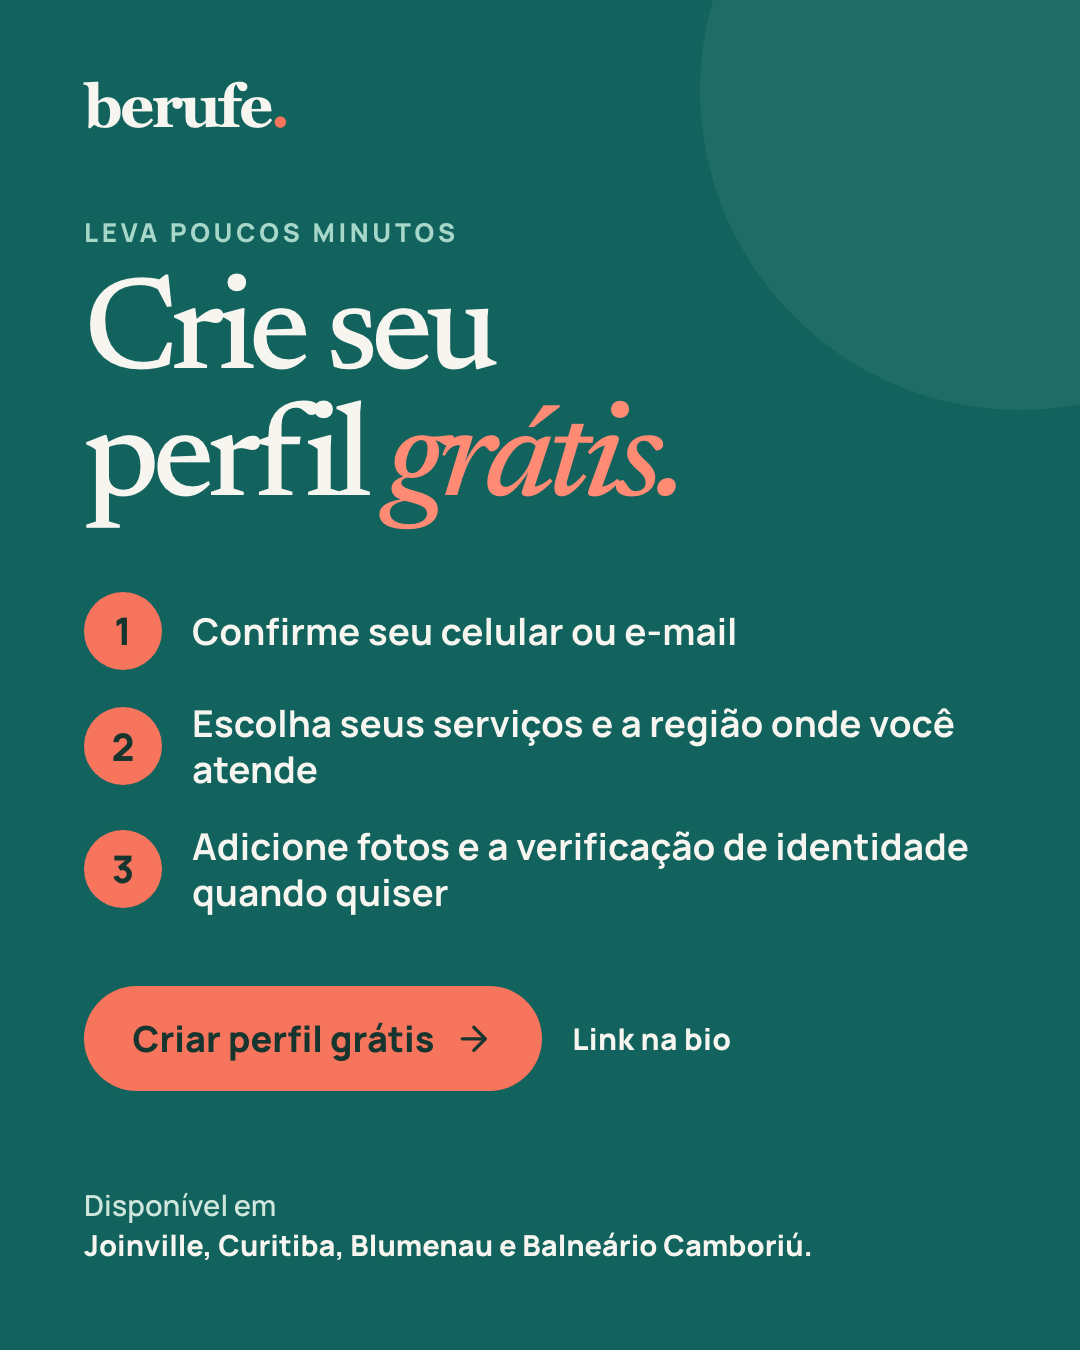
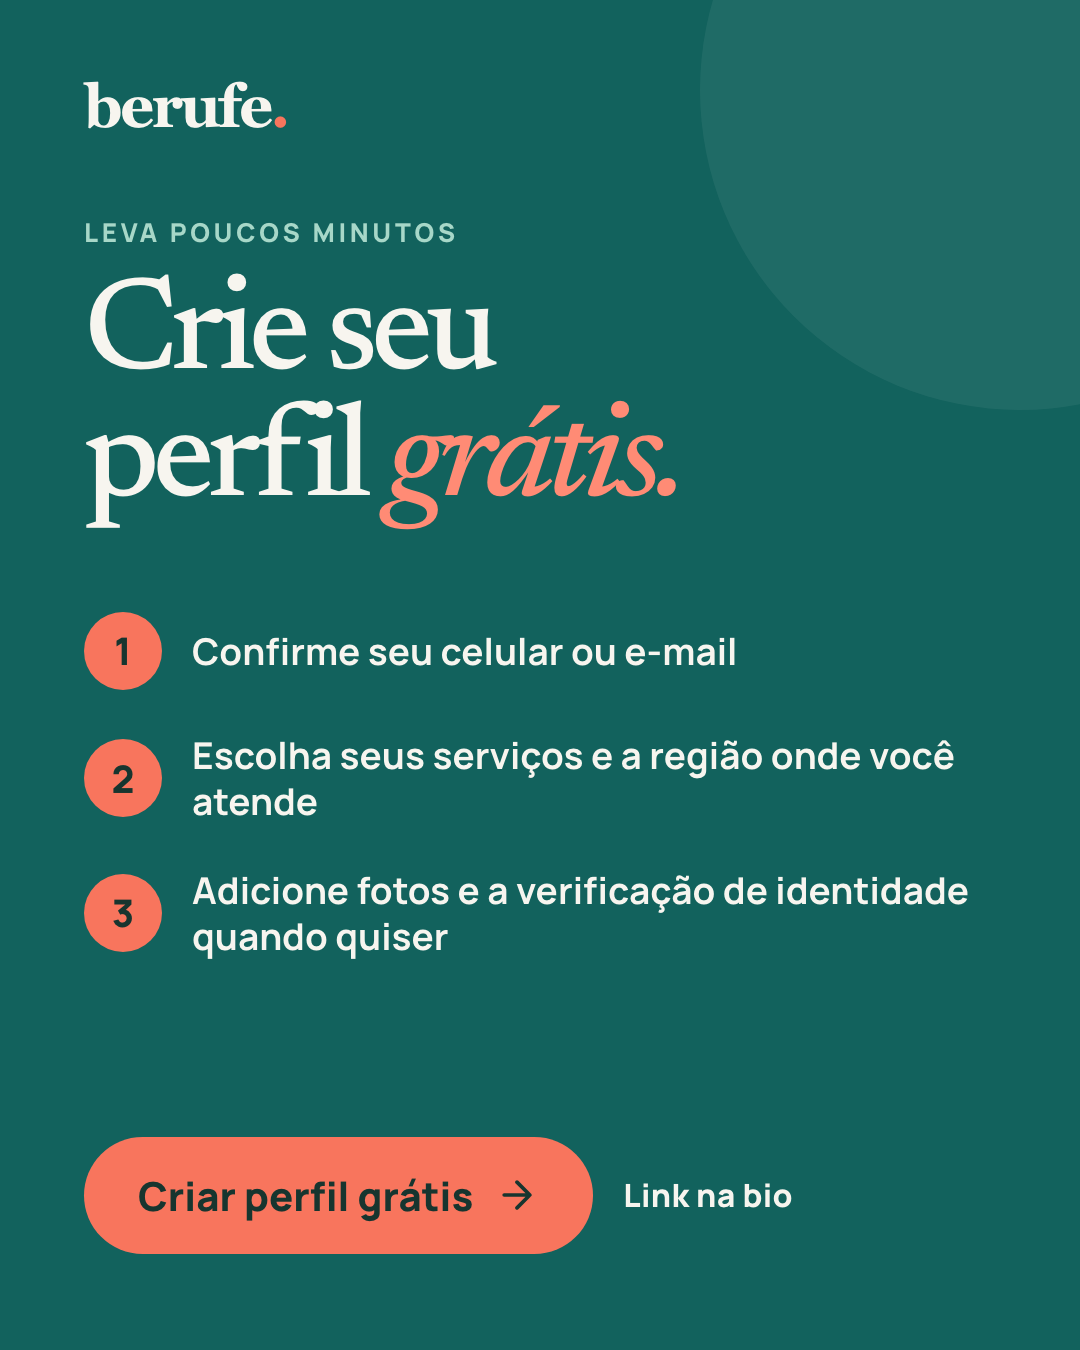
Drop the cities line from the professionals' CTA slide
Location is chosen when building the audience on Instagram, so naming
cities on the slide would only duplicate the targeting and go stale if the
audience changes. Without that line the CTA anchors the bottom of the
slide, matching where the swipe button sits on the others.

Changed region(s): [[0.0611, 0.4356, 0.9167, 0.8089], [0.0611, 0.84, 0.7639, 0.9333], [0.1833, 0.4356, 0.7028, 0.4978]]

diff --git a/arts/instagram/posts/profissional_post_001/post.md b/arts/instagram/posts/profissional_post_001/post.md
@@ -27,7 +27,7 @@ carousel names three everyday pains, then answers each one with something the pr
 | 2   | `slide-02-pains.png`    | Você conhece essa rotina? — Procurar fotos antigas… · Explicar tudo de novo… · Ser um desconhecido… — Existe um jeito mais simples.        |
 | 3   | `slide-03-profile.png`  | Seu trabalho num link só. — berufe.com.br/profissionais/seu-nome — Serviços e região · Portfólio · Selo de identidade verificada · Indicações — Mande pelo WhatsApp ou fixe na bio do Instagram. |
 | 4   | `slide-04-direct.png`   | Fale direto com o cliente. Sem pagar por isso. — R$ 0 por contato recebido · 0% de comissão sobre o serviço — Orçamento pelo WhatsApp      |
-| 5   | `slide-05-cta.png`      | Crie seu perfil grátis. — 1 Confirme celular ou e-mail · 2 Serviços e região · 3 Fotos e verificação quando quiser — Criar perfil grátis (link na bio) — Disponível em Joinville, Curitiba, Blumenau e Balneário Camboriú |
+| 5   | `slide-05-cta.png`      | Crie seu perfil grátis. — 1 Confirme celular ou e-mail · 2 Serviços e região · 3 Fotos e verificação quando quiser — Criar perfil grátis (link na bio) |
 
 The profile grid crops posts to the centre 3:4, so every slide keeps its content inside 84 px side
 margins.
@@ -38,7 +38,7 @@ margins.
 2. Título "Você conhece essa rotina?" e três situações do dia a dia: procurar fotos antigas na galeria, explicar tudo de novo por mensagem e ser um desconhecido para quem vai deixar você entrar em casa. Abaixo: "Existe um jeito mais simples."
 3. Título "Seu trabalho num link só" com um endereço de perfil da Berufe e quatro cartões: serviços e região de atendimento, portfólio com fotos dos trabalhos, selo de identidade verificada e indicações de outros profissionais.
 4. Título "Fale direto com o cliente. Sem pagar por isso." com dois destaques, "R$ 0 por contato recebido" e "0% de comissão sobre o serviço", e um cartão sobre orçamento enviado pelo WhatsApp.
-5. Título "Crie seu perfil grátis" com três passos: confirmar celular ou e-mail, escolher serviços e região, adicionar fotos e verificação de identidade quando quiser. Botão "Criar perfil grátis" e a lista de cidades atendidas.
+5. Título "Crie seu perfil grátis" com três passos: confirmar celular ou e-mail, escolher serviços e região, adicionar fotos e verificação de identidade quando quiser. Botão "Criar perfil grátis" e o aviso "Link na bio".
 
 ## What the post does not claim (on purpose)
 
@@ -60,4 +60,4 @@ Everything on the slides comes from `apps/web/app/pages/para-profissionais`,
   `@` mention or a "siga @…" line if the account name is final.
 - If the product changes before the post goes out (fees, verification, quotes), re-check the slides
   against the live `/para-profissionais` page.
-- Cities are the four in the public catalog; drop any you would rather not advertise yet.
+- No city is named on the slides: location is set when building the audience on Instagram.
